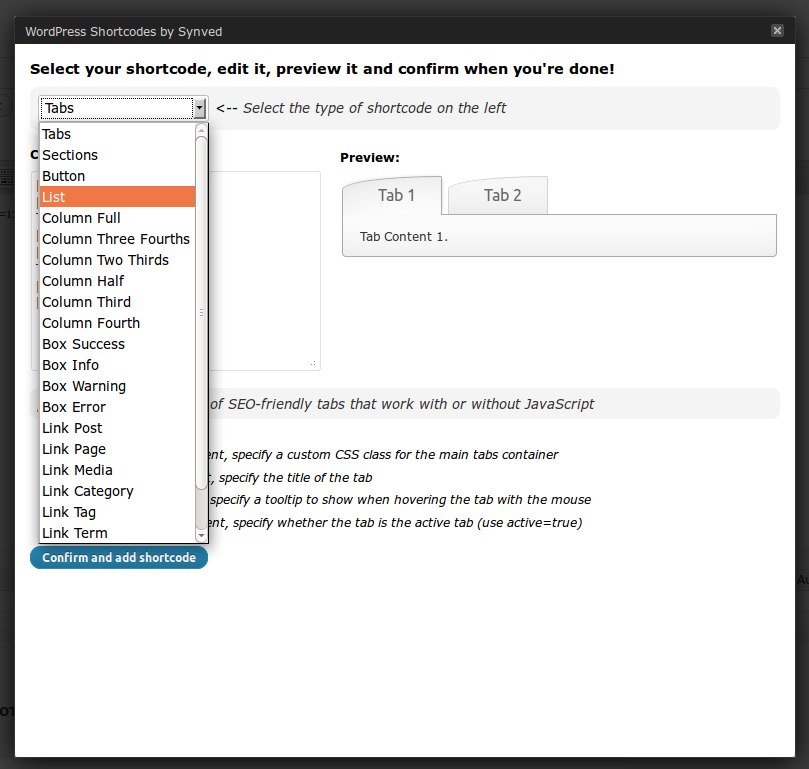
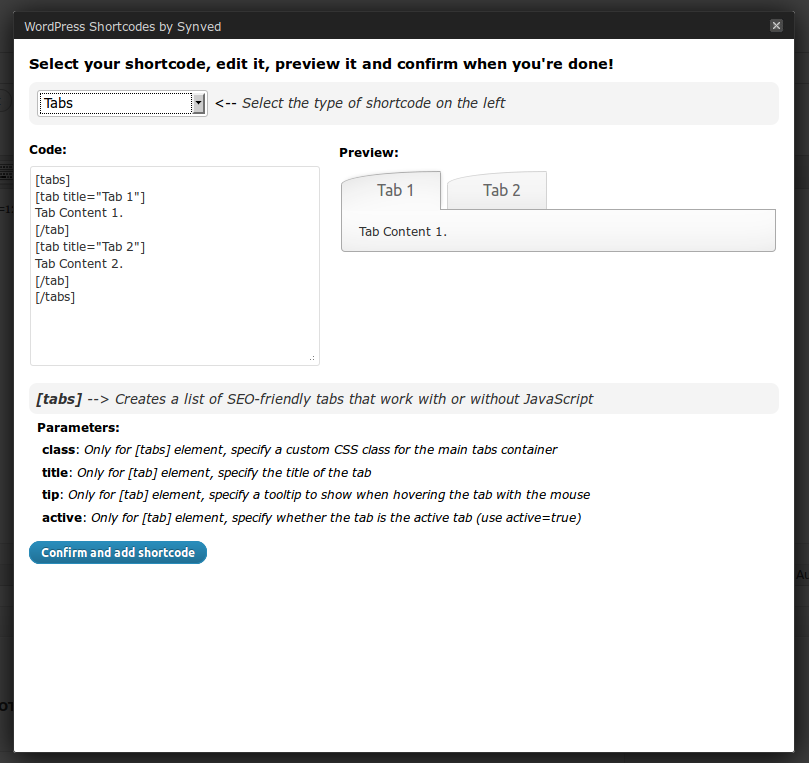
Changes for 1.4.8
git-svn-id: https://plugins.svn.wordpress.org/synved-shortcodes/trunk@595117 b8457f37-d9ea-0310-8a92-e5e31aec5664

diff --git a/synved-shortcode/synved-shortcode-setup.php b/synved-shortcode/synved-shortcode-setup.php
@@ -264,6 +264,12 @@ function synved_shortcode_ajax_callback()
 				$response_html .= '
 <div class="synved-shortcode-edit-popup">';
 
+				if (!synved_option_addon_installed('synved_shortcode', 'skin_slickpanel'))
+				{
+					$response_html .= '
+<a target="_blank" href="http://synved.com/product/wordpress-shortcodes-slickpanel-skin/" style=""><img align="center" src="' . $uri . '/image/skin-slickpanel-thin.png" style="clear:both;margin-top:5px;border:solid 1px #aaa;"/></a>';
+				}
+
 				$response_html .= '<h3 class="popup-title">' . __('Select your shortcode, edit it, preview it and confirm when you\'re done!', 'synved-shortcode') . '</h3>';
 				$response_html .= '
 <form action="" method="post">
@@ -421,6 +427,17 @@ function synved_shortcode_ajax_callback()
 <div class="synved-shortcode-edit-actions">';
 
 				$response_html .= '<button class="action-confirm button-primary">' . __('Confirm and add shortcode', 'synved-shortcode') . '</button>';
+
+				$response_html .= '
+<div style="float:right"><a target="_blank" href="http://synved.com/wordpress-shortcodes/">WordPress Shortcodes</a> by <a target="_blank" href="http://synved.com">Synved</a>';
+
+				if (!synved_option_addon_installed('synved_shortcode', 'skin_slickpanel'))
+				{
+					$response_html .= ' &raquo; <a target="_blank" href="http://synved.com/product/wordpress-shortcodes-slickpanel-skin/">BE SLICK AND SUPPORT US!</a> &laquo;';
+				}
+				
+				$response_html .= '
+</div>';
 
 				$response_html .= '
 </div>';

diff --git a/synved-shortcode/synved-shortcode.php b/synved-shortcode/synved-shortcode.php
@@ -3,7 +3,7 @@
 Module Name: Synved Shortcode
 Description: A complete set of WordPress shortcodes to add beautiful and useful elements that will spice up your site
 Author: Synved
-Version: 1.4.7
+Version: 1.4.8
 Author URI: http://synved.com/
 
 LEGAL STATEMENTS
@@ -22,8 +22,8 @@ In no event shall Synved Ltd. be liable to you or any third party for any direct
 
 
 define('SYNVED_SHORTCODE_LOADED', true);
-define('SYNVED_SHORTCODE_VERSION', 100040007);
-define('SYNVED_SHORTCODE_VERSION_STRING', '1.4.7');
+define('SYNVED_SHORTCODE_VERSION', 100040008);
+define('SYNVED_SHORTCODE_VERSION_STRING', '1.4.8');
 
 define('SYNVED_SHORTCODE_ADDON_PATH', str_replace(array('/', '\\'), DIRECTORY_SEPARATOR, dirname(__FILE__) . '/addons'));
 
@@ -803,7 +803,7 @@ function synved_shortcode_do_column($atts, $content = null, $code = '', $type = 
 	
 	if ($atts['extend'] == 'yes')
 	{
-		$class .= ' column-extend';
+		$class .= ' synved-column-extend';
 	}
 	
 	if ($flow != 'none')
@@ -950,7 +950,7 @@ function synved_shortcode_do_link($atts, $content = null, $code = '', $type = nu
 	$abstract = $item['abstract'];
 	$class = $item['class'];
 	$object = $item['object'];
-	$body = do_shortcode($content);
+	$body = trim(do_shortcode($content));
 	
 	if ($link != null || $body != null)
 	{

diff --git a/synved-wp-shortcodes.php b/synved-wp-shortcodes.php
@@ -4,7 +4,7 @@ Plugin Name: WordPress Shortcodes
 Plugin URI: http://synved.com/wordpress-shortcodes/
 Description: A complete set of WordPress shortcodes to add beautiful and useful elements that will spice up your site
 Author: Synved
-Version: 1.4.7
+Version: 1.4.8
 Author URI: http://www.synved.com/
 
 LEGAL STATEMENTS
